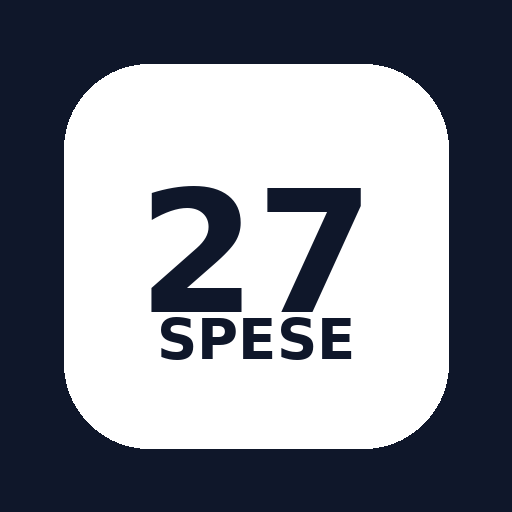
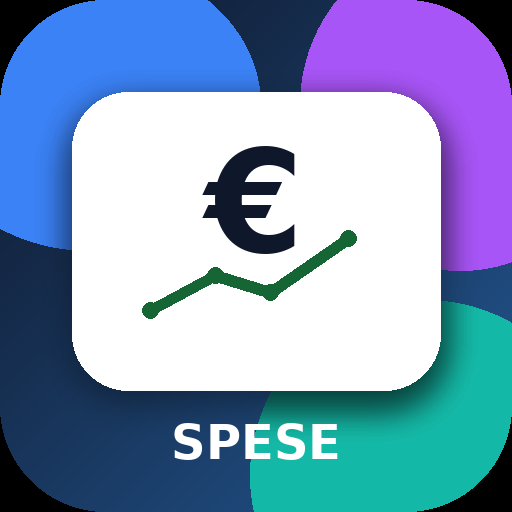
Aggiornamento v1.0

diff --git a/index.html b/index.html
@@ -12,7 +12,7 @@
   <meta name="theme-color" content="#0f172a" />
   <meta name="apple-mobile-web-app-capable" content="yes" />
   <meta name="apple-mobile-web-app-title" content="Tracking Spese" />
-  <link rel="apple-touch-icon" href="./icons/icon-192.png" />
+  <link rel="apple-touch-icon" href="./icons/icon-180.png" />
 </head>
 <body>
   <main>
@@ -29,7 +29,7 @@
 
       <input id="data" type="date" />
       <input id="descrizione" type="text" placeholder="Descrizione" />
-      <input id="importo" type="number" placeholder="Importo (€)" step="0.01" min="0" />
+      <input id="importo" type="number" placeholder="Importo" step="0.01" min="0" />
 
       <select id="tipo">
         <option value="uscita">Uscita</option>
@@ -195,7 +195,7 @@
 
     <section class="card">
       <h2>Crea Categorie</h2>
-      <p class="muted">Permette di creare le categorie per ogni entrata/uscita.</p>
+      <p class="muted">permette di creare le categorie per ogni entrata/uscita</p>
 
       <input id="nuovaCategoria" type="text" placeholder="Nome categoria" />
 

diff --git a/sw.js b/sw.js
@@ -1,4 +1,4 @@
-const CACHE_NAME = "spese27-v27";
+const CACHE_NAME = "spese27-v29";
 
 const FILES_TO_CACHE = [
   "./",
@@ -6,6 +6,7 @@ const FILES_TO_CACHE = [
   "./style.css",
   "./app.js",
   "./manifest.json",
+  "./icons/icon-180.png",
   "./icons/icon-192.png",
   "./icons/icon-512.png"
 ];